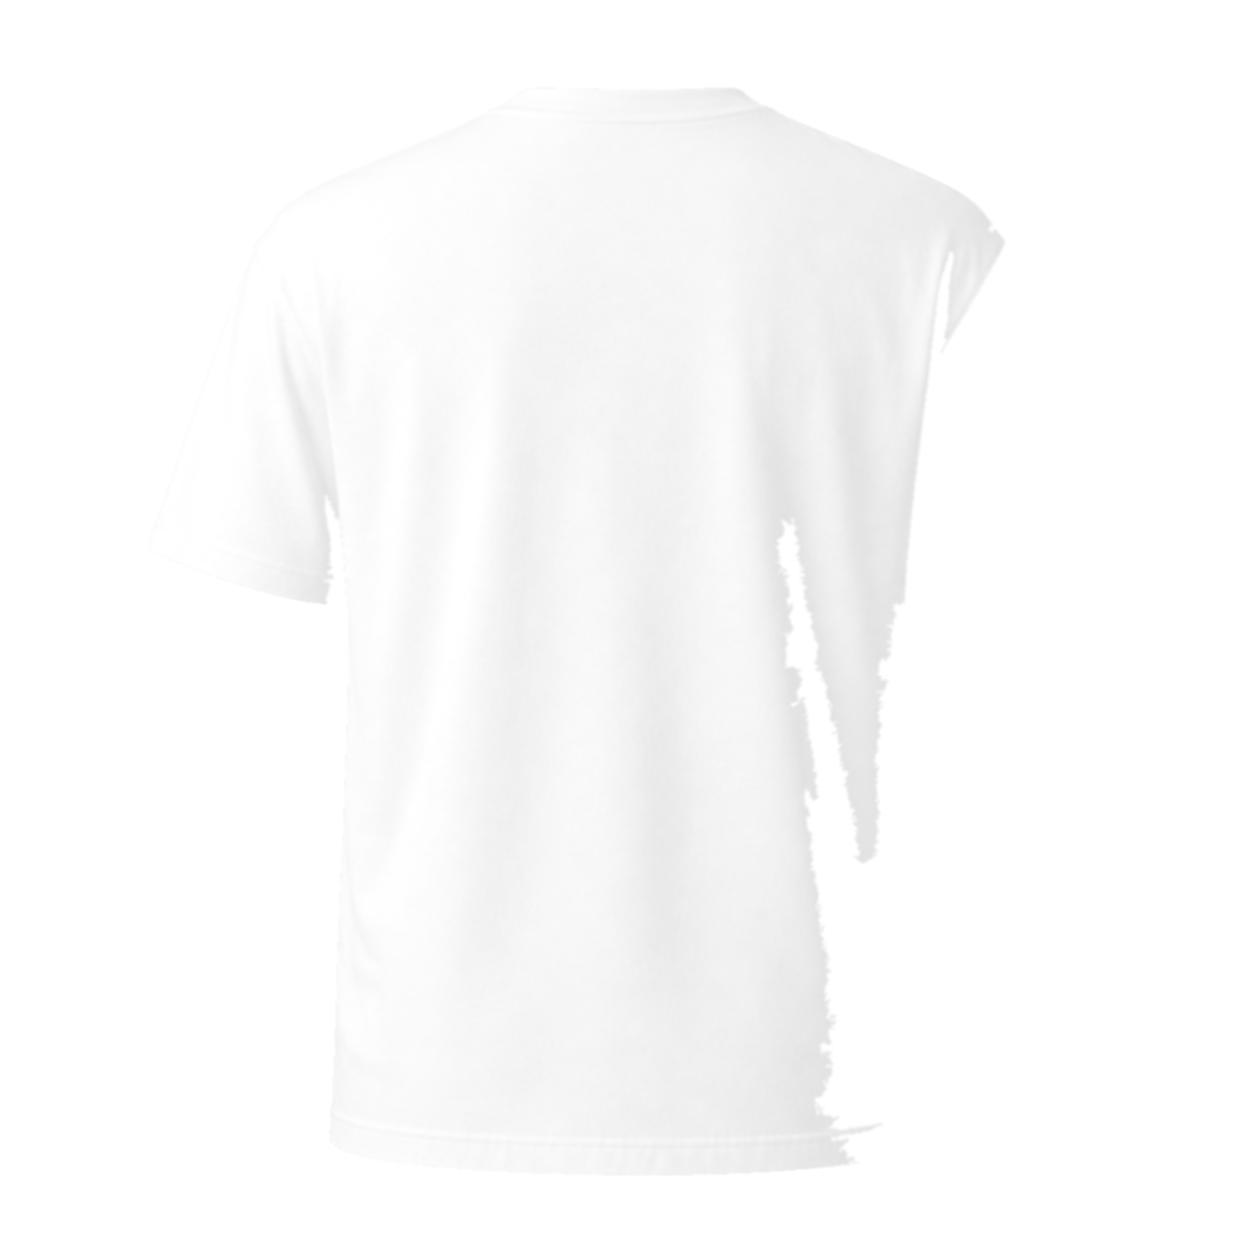
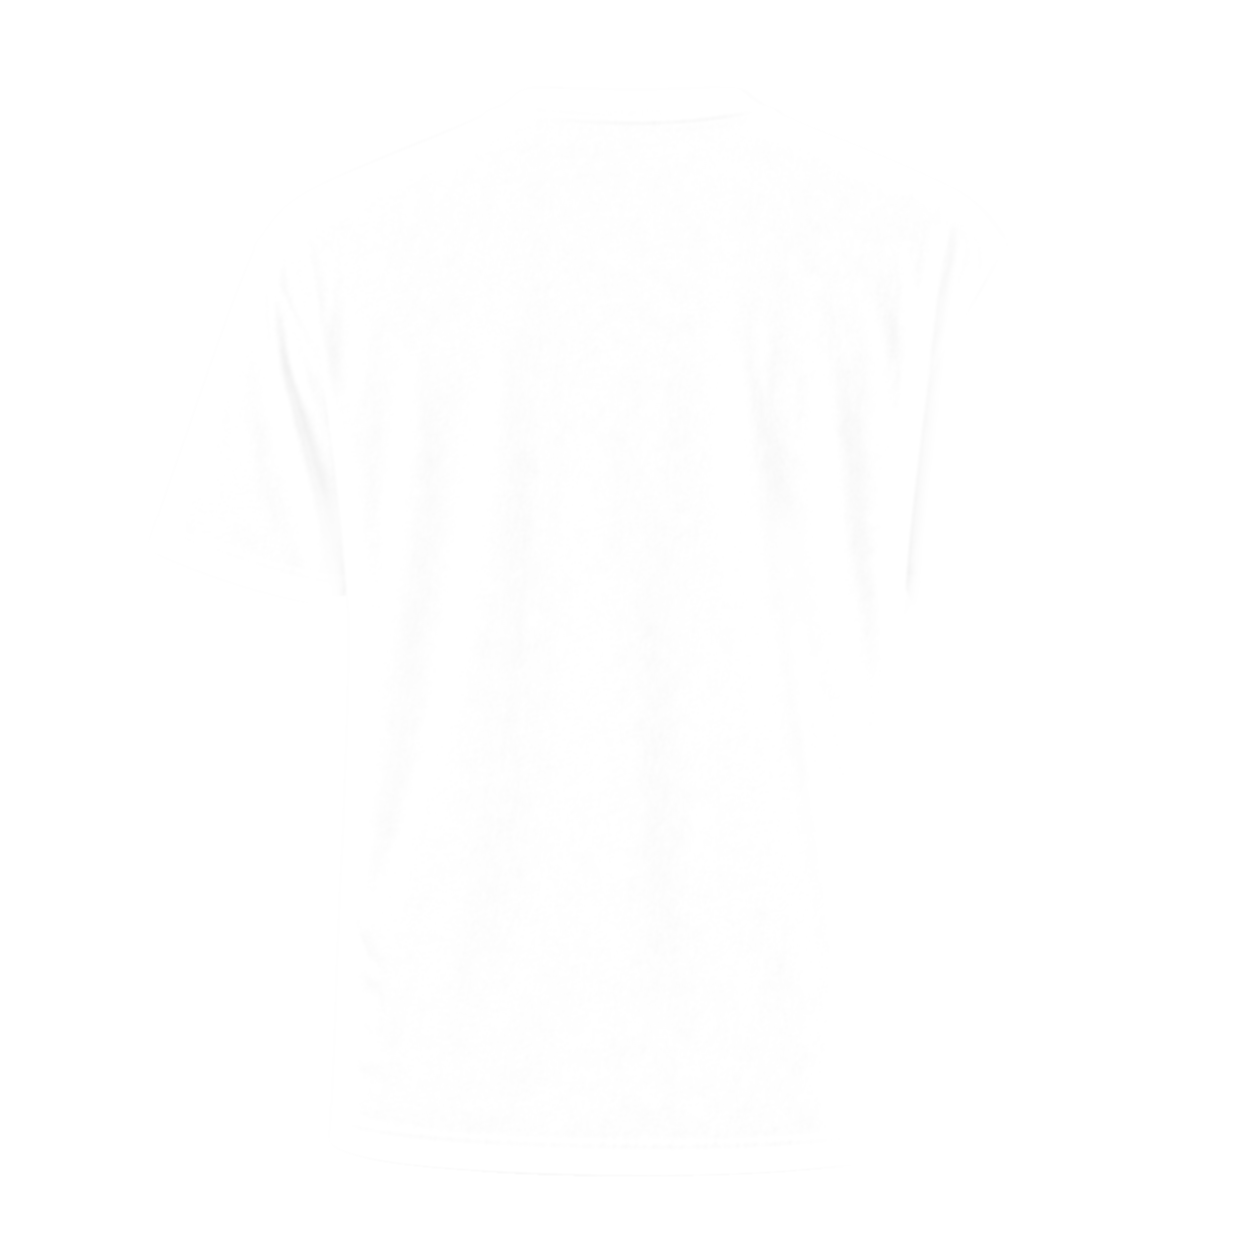
fix: stop mockup overlay re-darkening broad shadows
The multiply overlay carried the photo's full shading normalized to the
garment white point, so broad shadows (the tee photo's dim right side)
got applied twice and smeared, and the flood fill cut jagged holes
through them that read as gray streaks and sleeve ghosts in the editor
and the server render alike.

The overlay value is now a high-pass (pixel luma vs its wide
neighborhood average, darken-only) so only crisp fold texture survives,
faded to neutral over a long feather wherever the flood fill was not
confidently garment. Any hard spatial cutoff inside the fabric shows up
as a line, so the fade is the load-bearing part. Overlays regenerated
for both templates; masks and thumbs are byte-identical.

diff --git a/apps/api/prisma/assets/build-assets.js b/apps/api/prisma/assets/build-assets.js
@@ -7,9 +7,11 @@
  * garment can't be reached from the border, so they stay garment automatically.
  * Largest-component filter drops background speckles.
  *
- * Overlay: garment luminance normalized to its white point, gray PNG with the
- * garment mask as alpha. Composited with 'multiply' it re-applies the photo's
- * fabric folds over flat design ink.
+ * Overlay: high-pass fold texture (pixel luma vs wide neighborhood average),
+ * confidence-faded to neutral toward flood-fill holes and the silhouette, gray
+ * PNG with the garment mask as alpha. Composited with 'multiply' it re-applies
+ * the photo's fabric folds over flat design ink without re-darkening broad
+ * shadows (re-multiplying those produced smears and seams).
  *
  * Run: node build-assets.js <assetsDir> <slug> [lumaThreshold=200]
  * e.g. node apps/api/prisma/assets/build-assets.js apps/api/prisma/assets/classic-tee classic-tee 200
@@ -153,12 +155,12 @@ async function buildSide(side) {
   // shadow cracks the flood fill cuts into the garment along deep folds, without
   // moving the outer silhouette.
   const CLOSE_R = 9;
-  const boxPass = (src, op) => {
+  const boxPass = (src, op, r = CLOSE_R) => {
     const tmp = Buffer.alloc(w * h);
     for (let y = 0; y < h; y++) {
       for (let x = 0; x < w; x++) {
         let v = op === 'max' ? 0 : 255;
-        for (let k = Math.max(0, x - CLOSE_R); k <= Math.min(w - 1, x + CLOSE_R); k++) {
+        for (let k = Math.max(0, x - r); k <= Math.min(w - 1, x + r); k++) {
           const s = src[y * w + k];
           v = op === 'max' ? Math.max(v, s) : Math.min(v, s);
         }
@@ -169,7 +171,7 @@ async function buildSide(side) {
     for (let x = 0; x < w; x++) {
       for (let y = 0; y < h; y++) {
         let v = op === 'max' ? 0 : 255;
-        for (let k = Math.max(0, y - CLOSE_R); k <= Math.min(h - 1, y + CLOSE_R); k++) {
+        for (let k = Math.max(0, y - r); k <= Math.min(h - 1, y + r); k++) {
           const s = tmp[k * w + x];
           v = op === 'max' ? Math.max(v, s) : Math.min(v, s);
         }
@@ -211,23 +213,43 @@ async function buildSide(side) {
     .png()
     .toFile(join(dir, `${SLUG}-${side}-mask.png`));
 
-  // --- multiply overlay: luminance / white point, alpha = garment mask ---
-  const lumaSamples = [];
-  for (let i = 0; i < w * h; i += 7) {
-    if (maskGray[i]) lumaSamples.push(luma[i]);
-  }
-  lumaSamples.sort((a, b) => a - b);
-  const whitePoint = lumaSamples[Math.floor(lumaSamples.length * 0.97)];
+  // --- multiply overlay: high-pass fold texture, confidence-faded to neutral ---
+  // Two artifact sources drove this design (both seen on the tee photo):
+  //  1. Broad shadows (the dim right side) re-multiplied over the photo produced
+  //     smears, and the flood fill cuts jagged holes through them -> visible seams
+  //     between "real shading" and "neutral" zones.
+  //  2. Any HARD spatial cutoff inside the fabric shows up as a line, because the
+  //     garment's own edge falloff makes near-cutoff values non-neutral.
+  // So: the VALUE is a high-pass (pixel vs wide neighborhood average) -> broad
+  // shadows go neutral, only crisp fold texture stays; and the value fades to
+  // neutral over a LONG feather wherever the flood fill was not confidently
+  // garment (holes, silhouette, mirror overreach) -> no seam can exist anywhere.
+  const lumaBytes = Buffer.alloc(w * h);
+  for (let i = 0; i < w * h; i++) lumaBytes[i] = Math.max(0, Math.min(255, Math.round(luma[i])));
+  const { data: lumaWide } = await sharp(lumaBytes, { raw: { width: w, height: h, channels: 1 } })
+    .blur(18)
+    .toColourspace('b-w')
+    .raw()
+    .toBuffer({ resolveWithObject: true });
+
+  // Confidence field: 1 deep inside confidently-lit garment, easing to 0 toward
+  // holes and the silhouette (small erosion + wide blur = ~40px gradient).
+  const { data: confidence } = await sharp(boxPass(litMask, 'min', 8), {
+    raw: { width: w, height: h, channels: 1 },
+  })
+    .blur(15)
+    .toColourspace('b-w')
+    .raw()
+    .toBuffer({ resolveWithObject: true });
 
   const overlayGray = Buffer.alloc(w * h);
   for (let i = 0; i < w * h; i++) {
-    // Real garment pixels carry the fabric shading; everything else multiplies
-    // by 255 (no-op) so mirrored mask overreach never darkens the backdrop.
-    // The lift (0.35 + 0.65x) softens deep folds: the base photo already shows
+    // Ratio capped at 1: the overlay only ever darkens (multiply), never lightens.
+    // The lift (0.35 + 0.65x) softens deep creases: the base photo already shows
     // them at full strength, the overlay only re-suggests them over the ink.
-    // Full-strength folds would double-darken into smears.
-    const scaled = Math.min(1, luma[i] / whitePoint);
-    overlayGray[i] = litMask[i] ? Math.round((0.35 + 0.65 * scaled) * 255) : 255;
+    const ratio = Math.min(1, luma[i] / Math.max(1, lumaWide[i]));
+    const value = (0.35 + 0.65 * ratio) * 255;
+    overlayGray[i] = Math.round(255 - ((255 - value) * confidence[i]) / 255);
   }
   // Slight blur de-speckles the flood-fill crack edges in the shading.
   const { data: overlaySoft } = await sharp(overlayGray, { raw: { width: w, height: h, channels: 1 } })
@@ -256,7 +278,6 @@ async function buildSide(side) {
         w: +((maxX - minX) / w).toFixed(3),
         h: +((maxY - minY) / h).toFixed(3),
       },
-      whitePoint: Math.round(whitePoint),
     }),
   );
 }
